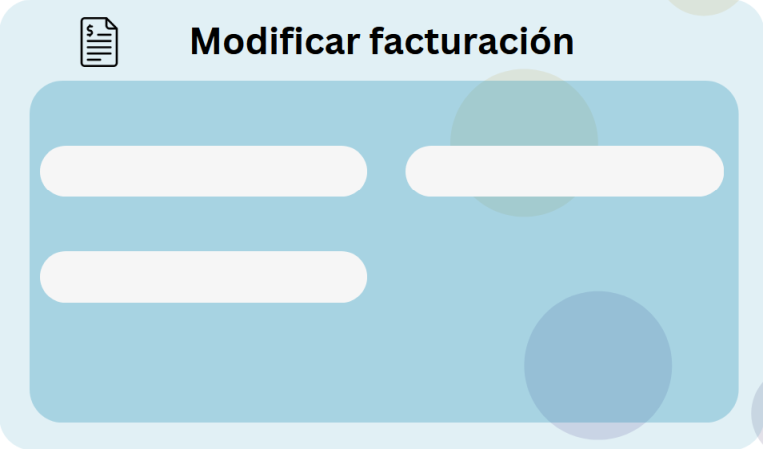
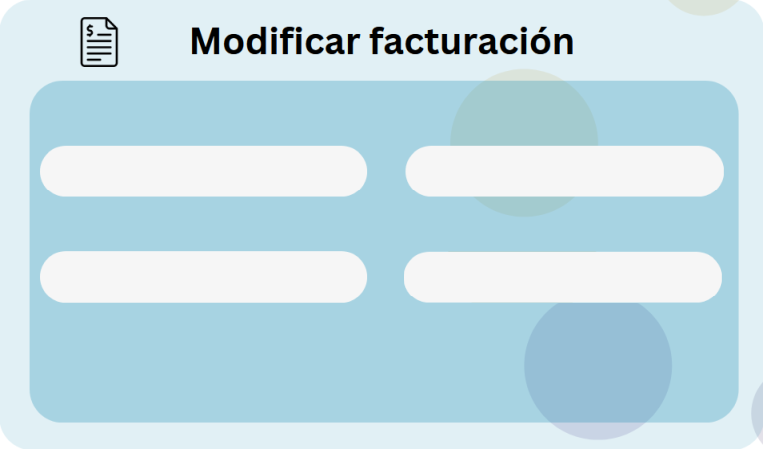
Modificar Facturacion

Changed region(s): [[0.5125, 0.5612, 0.9646, 0.686]]

diff --git a/dentiapp/src/Vista/ModificarFacturacionDialog.java b/dentiapp/src/Vista/ModificarFacturacionDialog.java
@@ -10,6 +10,8 @@ import javax.swing.JDialog;
 import javax.swing.JPanel;
 import javax.swing.border.EmptyBorder;
 import javax.swing.JLabel;
+import javax.swing.JOptionPane;
+
 import java.awt.Font;
 import java.awt.event.KeyAdapter;
 import java.awt.event.KeyEvent;
@@ -57,9 +59,10 @@ public class ModificarFacturacionDialog extends JDialog {
 
 	/**
 	 * Create the dialog.
+	 * @throws SQLException 
 	 */
 	@SuppressWarnings({ "unchecked", "rawtypes" })
-	public ModificarFacturacionDialog() {
+	public ModificarFacturacionDialog() throws SQLException {
 		setLocationRelativeTo(null);	
 		setResizable(false);
 		setUndecorated(true);
@@ -75,6 +78,10 @@ public class ModificarFacturacionDialog extends JDialog {
 				dispose();
 			}
 		});
+		
+		JComboBox cmbFactura = new JComboBox();
+		cmbFactura.setBounds(422, 260, 291, 41);
+		contentPanel.add(cmbFactura);
 		btnCancelar.setBounds(488, 406, 109, 36);
 		contentPanel.add(btnCancelar);
 		
@@ -144,17 +151,19 @@ public class ModificarFacturacionDialog extends JDialog {
 		
 		JButton btnAceptar = new JButton("Aceptar");
 		btnAceptar.addActionListener(new ActionListener() {
+			@SuppressWarnings("unused")
 			public void actionPerformed(ActionEvent e) {
 				try {
 					Date fecha = new Date();
 					String fechaFormato = sdf.format(fecha);
 					String[] dni = cmbPaciente.getSelectedItem().toString().split("-");
+					String[] idfactura = cmbFactura.getSelectedItem().toString().split((" - "));
 					String idpaciente = con.selectWhere("paciente", "idpaciente", "dni", dni[0]);
-					int pagar = 0;
+					int pagar = Integer.parseInt(con.selectWhere("facturacion", "pagar","idfacturacion",idfactura[0]));
 					if(txtPagado.getText().equals("")) {
-						pagar = 0;
+						pagar += 0;
 					} else {
-						pagar = Integer.parseInt(txtPagado.getText());
+						pagar += Integer.parseInt(txtPagado.getText());
 					}
 					int total = Integer.parseInt(con.selectWhere("tratamiento", "precio", "nombre", cmbTratamiento.getSelectedItem().toString()));
 					int pagado = 0;
@@ -162,9 +171,13 @@ public class ModificarFacturacionDialog extends JDialog {
 						pagado = 1;
 					}
 					
-					con.crearFactura(idpaciente, pagado, pagar, fechaFormato, total);
+					con.modificarFactura(idfactura[0], pagado, pagar);
+					JOptionPane.showMessageDialog(null, "Factura Modificada con Exito",
+							"Factura Modificada", JOptionPane.WARNING_MESSAGE,new ImageIcon(CrearDoctorDialog.class.getResource("/fotos/iconoOk.png")));
 				} catch (SQLException e1) {
 					// TODO Auto-generated catch block
+					JOptionPane.showMessageDialog(null, "Error al modificar la factura\nComprueba que los datos son correctos",
+							"Error", JOptionPane.WARNING_MESSAGE,new ImageIcon(CrearDoctorDialog.class.getResource("/fotos/iconoNo.png")));
 					e1.printStackTrace();
 				}
 				
@@ -180,6 +193,26 @@ public class ModificarFacturacionDialog extends JDialog {
 		
 		cmbPaciente.setModel(rellenarDatosDoble("paciente", "nombre", "dni", modeloDatos));
 		cmbTratamiento.setModel(rellenarDatos("tratamiento","nombre",modeloDatos));
+		
+		cmbPaciente.addActionListener(new ActionListener() {
+			@Override
+			public void actionPerformed(ActionEvent e) {
+				// TODO Auto-generated method stub
+				String[] dni = cmbPaciente.getSelectedItem().toString().split("-");
+				try {
+					String idpaciente = con.selectWhere("paciente", "idpaciente", "dni", dni[0]);
+					cmbFactura.setModel(rellenarDatosTriple("facturacion","fecha","idfacturacion","total",idpaciente, modeloDatos));
+				} catch (SQLException e1) {
+					// TODO Auto-generated catch block
+					
+					e1.printStackTrace();
+				}
+			}
+		});
+		
+		String[] dni = cmbPaciente.getSelectedItem().toString().split("-");
+		String idpaciente = con.selectWhere("paciente", "idpaciente", "dni", dni[0]);
+		cmbFactura.setModel(rellenarDatosTriple("facturacion","fecha","idfacturacion","total",idpaciente, modeloDatos));
 	}
 	
 	@SuppressWarnings({ "unchecked", "rawtypes" })
@@ -196,11 +229,27 @@ public class ModificarFacturacionDialog extends JDialog {
 		return comboDatos;
 	}
 	
+	@SuppressWarnings({ "unchecked", "rawtypes" })
 	public DefaultComboBoxModel rellenarDatosDoble(String nombreTabla, String campo, String campo2,
 			DefaultComboBoxModel<String> comboDatos) {
 		try {
 
 			comboDatos = (DefaultComboBoxModel<String>) con.rellenarComboBoxDoble(nombreTabla, campo, campo2);
+
+		} catch (SQLException e1) {
+			// TODO Auto-generated catch block
+			e1.printStackTrace();
+		}
+
+		return comboDatos;
+	}
+	
+	@SuppressWarnings({ "unchecked", "rawtypes" })
+	public DefaultComboBoxModel rellenarDatosTriple(String nombreTabla, String campo, String campo2, String campo3, String idpaciente,
+			DefaultComboBoxModel<String> comboDatos) {
+		try {
+
+			comboDatos = (DefaultComboBoxModel<String>) con.rellenarComboBoxTriple(nombreTabla, campo, campo2, campo3, idpaciente);
 
 		} catch (SQLException e1) {
 			// TODO Auto-generated catch block

diff --git a/dentiapp/src/Controlador/ControladorSQL.java b/dentiapp/src/Controlador/ControladorSQL.java
@@ -263,6 +263,29 @@ public class ControladorSQL {
 
 		return modeloDatos;
 	}
+	
+	public DefaultComboBoxModel<?> rellenarComboBoxTriple(String nombreTabla, String campo, String campo2,String campo3,String idpaciente)
+			throws SQLException {
+		cn.conectar();
+		metaDatos = cn.getConnection().getMetaData();
+		DefaultComboBoxModel<String> modeloDatos = new DefaultComboBoxModel<>();
+
+		String consulta = "SELECT " + campo + "," + campo2 + "," + campo3 + " FROM " + nombreTabla + " WHERE fk_idpaciente = " + idpaciente + ";";
+		ResultSet rset = cn.ejecutarSelect(consulta);
+		ArrayList<String> datos = new ArrayList<>();
+		while (rset.next()) {
+			String resultado = rset.getString(campo2) + " - " + rset.getString(campo) + " - " + rset.getString(campo3);
+			datos.add(resultado);
+		}
+
+		for (int i = 0; i < datos.size(); i++) {
+			modeloDatos.addElement(datos.get(i));
+		}
+
+		cn.desconectar();
+
+		return modeloDatos;
+	}
 
 	public ArrayList<String[]> obtenerConsulta(String fecha, String hora) throws SQLException {
 		cn.conectar();
@@ -674,13 +697,6 @@ public class ControladorSQL {
 	
 	public void crearFactura(String idpaciente, int pagado, int pagar, String fecha, int total) throws SQLException {
 		String consulta = "INSERT INTO `dentiapp`.`facturacion` (`idfacturacion`,`fk_idpaciente`, `pagado`, `pagar`,`fecha`, `total`)  VALUES ('0','"+idpaciente+"','"+pagado+"','"+pagar+"','"+fecha+"','"+total+"')" ;
-		System.out.println(consulta);
-		cn.ejecutarIDU(consulta);
-	}
-	
-	public void modificarFactura(String idpaciente, int pagado, int pagar, String fecha, int total) throws SQLException {
-		String consulta = "UPDATE facturacion SET pagado ='"+ pagado+"',fecha="+fecha+"',total="+total+ " WHERE fk_idpaciente = " +idpaciente
-				+ "//(`idfacturacion`,`fk_idpaciente`, SET pagado`, `pagar`,`fecha`, `total`)
 		System.out.println(consulta);
 		cn.ejecutarIDU(consulta);
 	}

diff --git a/dentiapp/src/Vista/adminFrame.java b/dentiapp/src/Vista/adminFrame.java
@@ -321,10 +321,16 @@ public class adminFrame extends JFrame {
 		mntmModificarFacturacion.addActionListener(new ActionListener() {
 			public void actionPerformed(ActionEvent e) {
 				ModificarFacturacionDialog dialFactura3;
-				dialFactura3 = new ModificarFacturacionDialog();
-				dialFactura3.setModal(true);
-				dialFactura3.setLocationRelativeTo(null);
-				dialFactura3.setVisible(true);
+				try {
+					dialFactura3 = new ModificarFacturacionDialog();
+					dialFactura3.setModal(true);
+					dialFactura3.setLocationRelativeTo(null);
+					dialFactura3.setVisible(true);
+				} catch (SQLException e1) {
+					// TODO Auto-generated catch block
+					e1.printStackTrace();
+				}
+				
 			}
 		});
 		mnGestionarFacturacion.add(mntmModificarFacturacion);
